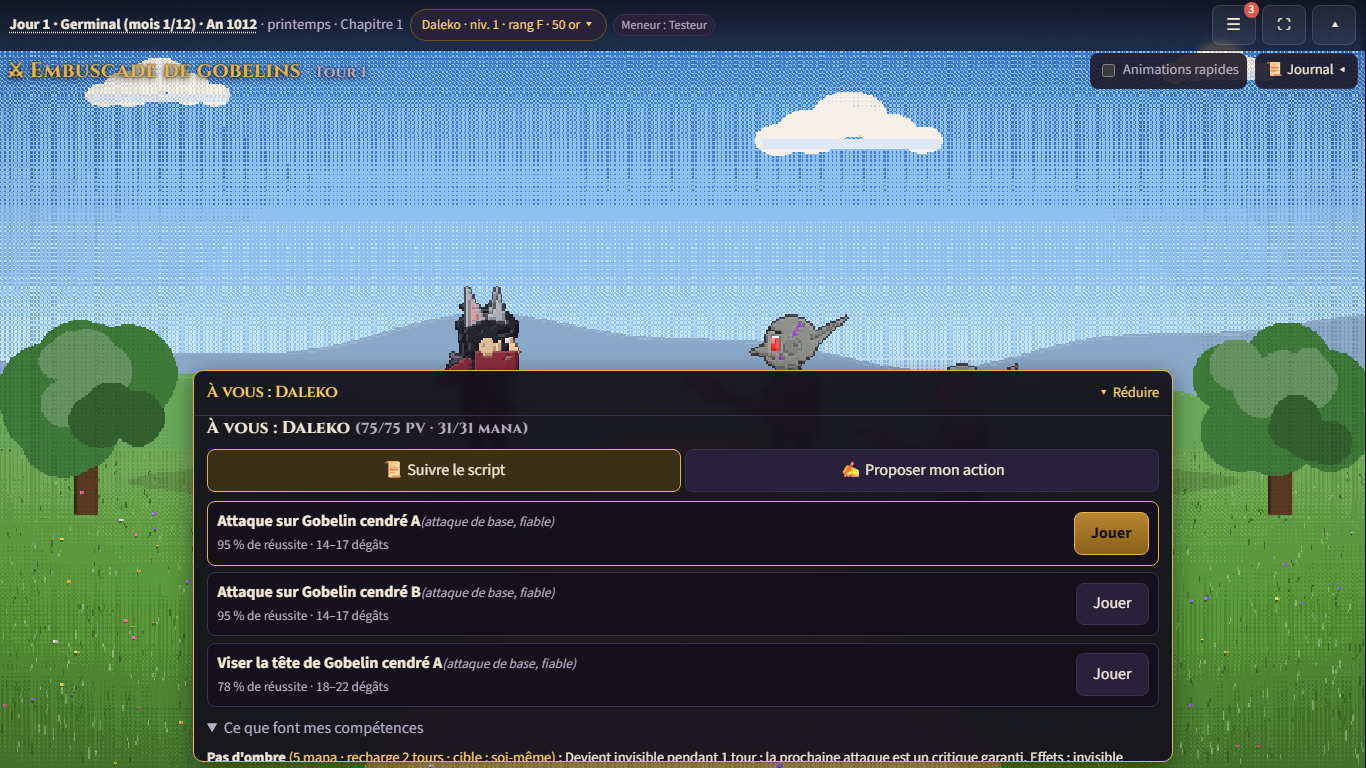
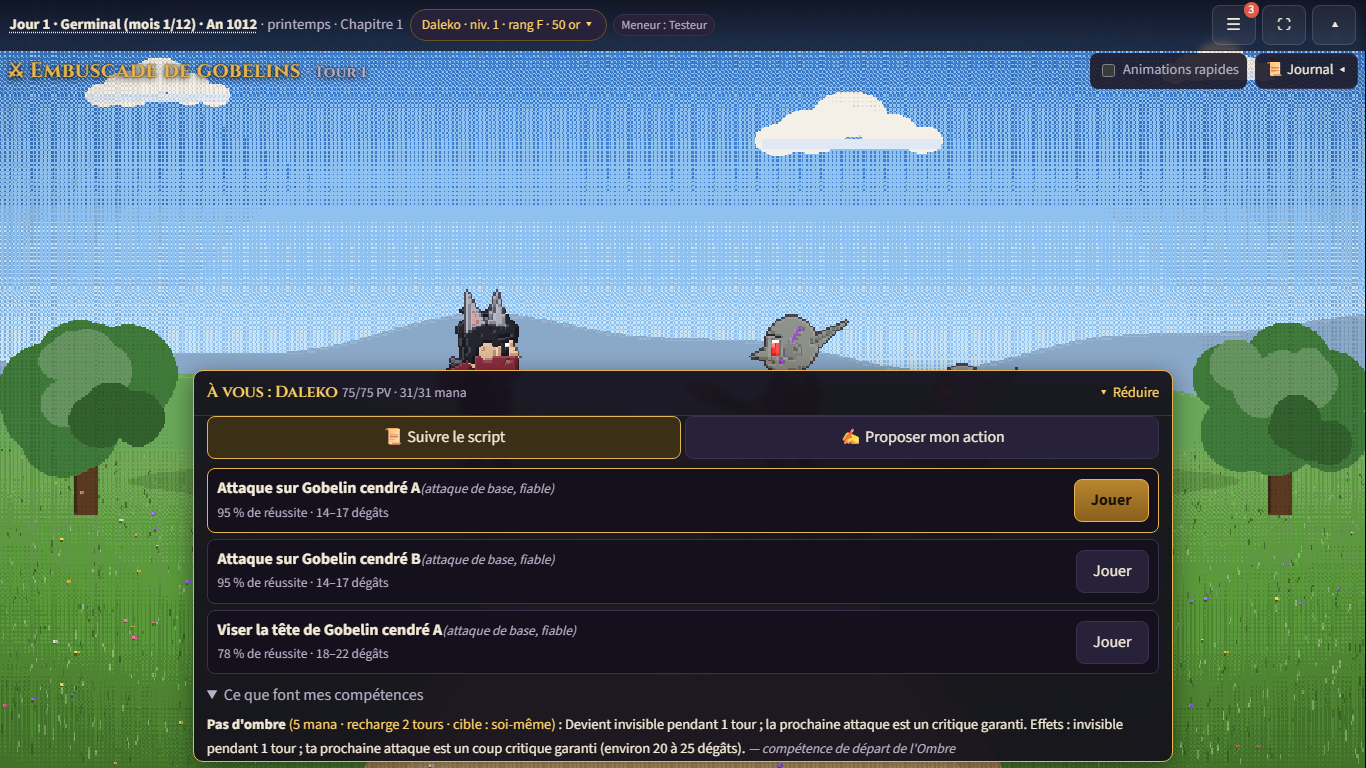
Plein écran, lot 2 : finitions (préférences, accessibilité, tests)
- Chaque appareil retient la barre du haut repliée, le cadre du lieu et les panneaux du combat (src/ui/preferences.ts, localStorage sous try/catch, hors de l'état de la partie)
- Fenêtres centrées : focus piégé et rendu au bouton d'origine ; menu fermé par un clic en dehors ; tiroir refermé quand une scène, un combat ou un donjon commence
- Combat en paysage sur téléphone : panneau d'actions plus bas, en-tête sans doublon
- tests/e2e/parcours.mjs adapté (menu, tiroirs, bouton Carte) avec vérification qu'aucune page ne défile ; passe en entier
- CLAUDE.md (règle d'interface plein écran) et docs/CONCEPTION.md (§ 11.1 l'écran de jeu)

Changed region(s): [[0.1537, 0.5, 0.8609, 1.0], [0.3075, 0.375, 0.3997, 0.5], [0.5534, 0.4062, 0.6149, 0.5]]

diff --git a/src/ui/ecrans/Jeu.svelte b/src/ui/ecrans/Jeu.svelte
@@ -27,6 +27,7 @@
   import Tiroir from '../Tiroir.svelte';
   import Fenetre from '../Fenetre.svelte';
   import { trouverLieu } from '../../moteur/guide';
+  import { ecrirePreference, lirePreference } from '../preferences';
 
   const c = jeu.contenu!;
   type Panneau = 'histoire' | 'fiche' | 'compagnons' | 'quetes' | 'journal' | 'partie';
@@ -37,7 +38,9 @@
   let ville = $state<string | null>(null);
   let ficheOuverte = $state(false);
   let aideDateOuverte = $state(false);
-  let barreRepliee = $state(false);
+  /** Barre du haut repliée : préférence de cet appareil, retenue d'une session à l'autre. */
+  let barreRepliee = $state(lirePreference('barre-repliee', false));
+  $effect(() => ecrirePreference('barre-repliee', barreRepliee));
   let pleinEcran = $state(false);
   /** Ouvre un lieu ; s'il est dans une ville, on reviendra ensuite sur le plan de cette ville. */
   function ouvrirLieu(id: string) {
@@ -77,6 +80,13 @@
     if (etat.tempsLibre) return 'temps-libre';
     if (etat.finChapitre) return 'fin-chapitre';
     return 'monde';
+  });
+
+  // une scène, un combat ou un donjon qui commence referme le tiroir ouvert (sinon il cacherait l'action)
+  let vuePrecedente = '';
+  $effect(() => {
+    if (vue !== vuePrecedente && vuePrecedente !== '') { tiroir = null; menuOuvert = false; }
+    vuePrecedente = vue;
   });
 
   const entrees: [Panneau, string, string, string][] = [
@@ -131,7 +141,7 @@
       <Dialogue cle={sceneMoi!} />
     {:else if vue === 'temps-libre' || vue === 'fin-chapitre'}
       <div class="arriere" inert><Carte choisir={() => undefined} /></div>
-      <Fenetre titre={vue === 'temps-libre' ? 'Temps libre' : 'Fin du chapitre'}>
+      <Fenetre>
         {#if vue === 'temps-libre'}<TempsLibre />{:else}<FinChapitre />{/if}
       </Fenetre>
     {:else if lieu}
@@ -168,6 +178,7 @@
         <div class="menu">
           <button class="icone" aria-label="Menu" aria-expanded={menuOuvert} aria-haspopup="true" onclick={() => (menuOuvert = !menuOuvert)}>☰{#if pastilleMenu}<span class="pastille">{pastilleMenu}</span>{/if}</button>
           {#if menuOuvert}
+            <div class="fond-menu" role="presentation" onclick={() => (menuOuvert = false)}></div>
             <div class="liste-menu carte-ui" role="menu">
               {#each entrees as [id, nom, icone, k] (id)}
                 <button role="menuitem" aria-expanded={tiroir === id} onclick={() => ouvrir(id)}>
@@ -233,6 +244,7 @@
   .icone { position: relative; min-width: 44px; min-height: 40px; padding: 0.2em 0.6em; background: #ffffff10; border-color: #ffffff22; font-size: 1.05rem; }
   .texte { font-size: 0.9rem; }
   .menu { position: relative; }
+  .fond-menu { position: fixed; inset: 0; z-index: 74; }
   .liste-menu { position: absolute; right: 0; top: calc(100% + 0.3rem); width: min(300px, calc(100vw - 1rem)); display: grid; gap: 0.3rem; padding: 0.5rem; z-index: 75; }
   .liste-menu button { display: flex; align-items: center; gap: 0.5rem; text-align: left; min-height: 44px; }
   .liste-menu button span:first-child { flex: 1; }

diff --git a/src/ui/Fenetre.svelte b/src/ui/Fenetre.svelte
@@ -1,12 +1,27 @@
 <script lang="ts">
   /** Fenêtre centrée par-dessus la scène (boutique, auberge, temps libre…), qu'on peut fermer ; elle défile à l'intérieur. */
   import type { Snippet } from 'svelte';
+  import { onMount, tick } from 'svelte';
   let { titre = '', fermer = null, children }: { titre?: string; fermer?: (() => void) | null; children: Snippet } = $props();
+  let boite: HTMLElement;
+  onMount(() => {
+    // le focus va dans la fenêtre, puis revient au bouton qui l'a ouverte
+    const avant = document.activeElement as HTMLElement | null;
+    void tick().then(() => (boite?.querySelector<HTMLElement>('.fermer, button:not([disabled])') ?? boite)?.focus());
+    return () => avant?.focus?.();
+  });
+  function clavier(e: KeyboardEvent) {
+    if (e.key !== 'Tab') return;
+    const el = [...boite.querySelectorAll<HTMLElement>('button, [href], input, select, textarea, summary, [tabindex]:not([tabindex="-1"])')].filter((x) => !x.hasAttribute('disabled'));
+    if (!el.length) return;
+    if (e.shiftKey && document.activeElement === el[0]) { e.preventDefault(); el[el.length - 1].focus(); }
+    else if (!e.shiftKey && document.activeElement === el[el.length - 1]) { e.preventDefault(); el[0].focus(); }
+  }
 </script>
 
 <svelte:window onkeydown={(e) => { if (e.key === 'Escape' && fermer) fermer(); }} />
 <div class="voile" onclick={() => fermer?.()} role="presentation"></div>
-<div class="fenetre carte-ui" role="dialog" aria-modal="true" aria-label={titre || 'Fenêtre'}>
+<div class="fenetre carte-ui" bind:this={boite} role="dialog" aria-modal="true" aria-label={titre || 'Fenêtre'} tabindex="-1" onkeydown={clavier}>
   {#if titre || fermer}
     <header>{#if titre}<h2>{titre}</h2>{/if}{#if fermer}<button class="fermer" aria-label="Fermer" onclick={fermer}>✕</button>{/if}</header>
   {/if}

diff --git a/src/ui/vues/Lieu.svelte b/src/ui/vues/Lieu.svelte
@@ -21,6 +21,7 @@
   import Auberge from './Auberge.svelte';
   import Cadre169 from '../Cadre169.svelte';
   import Fenetre from '../Fenetre.svelte';
+  import { ecrirePreference, lirePreference } from '../preferences';
 
   let { id, retour }: { id: string; retour: () => void } = $props();
   const c = jeu.contenu!;
@@ -55,10 +56,11 @@
   let litOuvert = $state(false);
   let panneaux = $state<HTMLElement | null>(null);
   /** Cadre d'informations en bas de l'écran : replié (une ligne) ou déplié. */
-  let detailsOuverts = $state(false);
+  let detailsOuverts = $state(lirePreference('lieu-details', false));
+  $effect(() => ecrirePreference('lieu-details', detailsOuverts));
   /** La proposition de repos en cours a été mise de côté (la fenêtre du lit est fermée). */
   let reposCache = $state(false);
-  $effect(() => { void id; pnjChoisi = null; piece = 'salle'; boutiqueOuverte = false; contratsOuverts = false; litOuvert = false; detailsOuverts = false; });
+  $effect(() => { void id; pnjChoisi = null; piece = 'salle'; boutiqueOuverte = false; contratsOuverts = false; litOuvert = false; });
   $effect(() => { if (!etat.repos) reposCache = false; });
   // une proposition de repos en cours se règle dans la chambre
   $effect(() => { if (etat.repos && lieu.auberge) piece = 'chambre'; });

diff --git a/src/ui/vues/CombatVue.svelte b/src/ui/vues/CombatVue.svelte
@@ -11,6 +11,7 @@
   import { actionsDisponibles, estimerAction, NOMS_ETATS, type ActionCombat, type Combat, type Combattant, type EvenementCombat } from '../../moteur/combat';
   import type { Competence } from '../../contenu/schemas';
   import { etapeContrat } from '../../moteur/partie';
+  import { ecrirePreference, lirePreference } from '../preferences';
 
   let { cle }: { cle: string } = $props();
   const c = jeu.contenu!;
@@ -107,8 +108,10 @@
   let selection = $state<{ type: 'attaque' } | { type: 'competence'; comp: Competence } | { type: 'potion' } | { type: 'pacifier' } | { type: 'sac'; item: string; cible: string } | null>(null);
   let scene: SceneCombat | null = null;
   /** Panneau d'actions replié, volet du journal ouvert (affichage seulement, propre à cet appareil). */
-  let actionsReduites = $state(false);
-  let journalOuvert = $state(false);
+  let actionsReduites = $state(lirePreference('combat-actions-reduites', false));
+  let journalOuvert = $state(lirePreference('combat-journal', false));
+  $effect(() => ecrirePreference('combat-actions-reduites', actionsReduites));
+  $effect(() => ecrirePreference('combat-journal', journalOuvert));
 
   const cibles = $derived.by((): string[] => {
     if (!dispo || !acteur || !selection) return [];

diff --git a/src/ui/preferences.ts b/src/ui/preferences.ts
@@ -1,0 +1,19 @@
+/**
+ * Préférences d'affichage propres à cet appareil (barre repliée, cadre du lieu, panneau du combat…).
+ * Elles ne font pas partie de l'état de la partie : elles ne sont ni envoyées aux autres joueurs, ni sauvegardées avec la partie.
+ * Le stockage du navigateur peut être indisponible (navigation privée, réglages) : on retombe alors sur la valeur par défaut.
+ */
+const PREFIXE = 'velmaris:affichage:';
+
+export function lirePreference(cle: string, defaut: boolean): boolean {
+  try {
+    const v = localStorage.getItem(PREFIXE + cle);
+    return v === null ? defaut : v === '1';
+  } catch {
+    return defaut;
+  }
+}
+
+export function ecrirePreference(cle: string, valeur: boolean) {
+  try { localStorage.setItem(PREFIXE + cle, valeur ? '1' : '0'); } catch { /* stockage indisponible : préférence non retenue */ }
+}

diff --git a/CLAUDE.md b/CLAUDE.md
@@ -62,6 +62,14 @@ Si une demande est floue ou contradictoire : poser la question plutôt que devin
 - `npm run roblox:parite` échoue tant que `roblox/src/shared/moteur.lua` n'est pas régénéré par la session Roblox (c'était déjà le cas avant le test 2).
 - Tests navigateur (Playwright, installé sur le PC du groupe **hors** `package.json` : `npm i --no-save playwright` puis `npx playwright install chromium`), contre `npm run build` + `npx vite preview --port 4173` : `tests/e2e/carte.mjs` (un seul clic par lieu, ordinateur et mobile : **passe le 14/11**) et `tests/e2e/captures-hd.mjs` (`npx tsx …` : un combat par classe avec calque de race, Temple et Guilde, dans `rapports/captures-hd/`). Les boucles de scène doivent cliquer « Continuer ». L'aperçu se lance avec `.claude/launch.json` (non versionné).
 
+## Interface plein écran (14/11)
+- **L'écran de jeu fait exactement la taille de la fenêtre, et la page ne défile jamais** (`src/ui/ecrans/Jeu.svelte`). La scène (carte, plan, lieu, dialogue, combat, donjon) est un cadre 16:9 agrandi au maximum (`src/ui/Cadre169.svelte`, bandes sombres) ; les zones cliquables se placent en pourcentages de ce cadre. Tout le reste passe **par-dessus** l'image.
+- **Barre du haut** fine et semi-transparente (date, fiche rapide, meneur, 🗺 Carte, ☰ Menu avec pastilles, ⛶ plein écran qui essaie le paysage sur téléphone, ▴ pour la replier en languette). **Tiroirs** à droite pour Histoire, Personnage, Compagnons, Quêtes, Journal, Partie (`src/ui/Tiroir.svelte` : un seul ouvert, ✕, Échap, clic dehors, balayage ; focus piégé et rendu au bouton) ; ils se referment quand une scène, un combat ou un donjon commence. Raccourcis : C, H, P, O, Q, J, Échap.
+- **Lieu** : décor plein écran, cadre d'informations en bas (replié par défaut, une ligne ; déplié, défilement interne). Clic sur un personnage = **petite bulle près de lui** (sous l'image en portrait). Boutique, lit, examen de rang, identification et temps libre = **fenêtres centrées** (`src/ui/Fenetre.svelte`).
+- **Dialogue** façon roman visuel (boîte réductible) ; **combat** : panneau d'actions en bas (déplié par défaut, repliable), journal et combattants dans un volet à droite.
+- Préférences d'affichage de l'appareil (barre, cadre du lieu, panneaux du combat) : `src/ui/preferences.ts` (`localStorage` sous `try/catch`), jamais dans l'état de la partie.
+- Téléphone : barre sur une ligne (la date est dans la fiche rapide), en portrait la scène est en haut et les informations dessous. Animations de 150 à 200 ms, coupées par `prefers-reduced-motion`. Notifications et erreurs en haut à droite.
+- Tests navigateur : `tests/e2e/parcours.mjs` (parcours complet), `carte.mjs` (un seul clic par lieu), `captures-ecran.mjs` (4 tailles d'écran, vérifie qu'aucune page ne défile ; captures dans `rapports/captures-ecran/`).
 ## Fonds de combat (14/11)
 - **Un combat a toujours un décor.** Chaîne de secours (`src/rendu/fonds.ts`, `choisirFond`) : 1. vrai fond `assets/combat/fonds/<fond>.png` ; 2. décor équivalent de `content/config/fonds.yaml` (clé `fonds_combat`, validée par zod : `decor` et `type` extérieur / intérieur) ; 3. décor du lieu où le combat commence (scène ou étape de contrat) ; 4. fond générique `plaine` ou `crypte` ; 5. dégradé, signalé seulement dans la console. Un décor de lieu utilisé comme fond est assombri de 18 % et reçoit une bande de sol sous la ligne des pieds. **Les 32 vrais fonds sont livrés (branche `textures-fonds`, 14/11)** : la chaîne de secours ne sert plus qu'à un nouveau fond sans image ; ligne des pieds (`sol = H * 0.62`) vérifiée sur les 32. Les noms longs des combattants passent sur deux lignes.
 - Tout nouveau `fond:` d'une rencontre doit avoir son image ou une ligne dans `fonds.yaml` : `tests/fonds.test.ts` le vérifie. `npm run assets:manquants` liste les vrais fonds de combat manquants.

diff --git a/docs/CONCEPTION.md b/docs/CONCEPTION.md
@@ -802,6 +802,18 @@ Chaque fin comprend un **épilogue par héros** (son âge en 1030, son domaine, 
 
 ---
 
+### 11.1 L'écran de jeu (décidé le 14/11)
+
+Le jeu s'affiche **en plein écran, comme un jeu vidéo** : l'image (carte, décor, combat) occupe toute la fenêtre, et la page ne défile jamais.
+
+- **En haut**, une barre fine et transparente : la date, le badge du héros (qui ouvre sa fiche), le meneur du jour, et les boutons 🗺 Carte, ☰ Menu, ⛶ plein écran et ▴ pour cacher la barre.
+- **Le menu ☰** ouvre des tiroirs qui glissent depuis la droite : Histoire, Personnage, Compagnons, Quêtes, Journal, Partie. Un seul à la fois ; on le ferme avec ✕, Échap, un clic à côté, ou en balayant vers la droite. Sur ordinateur : C carte, H histoire, P personnage, O compagnons, Q quêtes, J journal.
+- **Dans un lieu**, on clique sur un personnage du décor : une petite bulle s'ouvre près de lui (lui parler, voir sa marchandise…). Le nom du lieu et ses informations sont dans un cadre en bas, replié par défaut.
+- **En dialogue**, le décor reste en fond et le texte est dans une boîte en bas, qu'on peut réduire pour voir l'image.
+- **En combat**, la scène occupe tout l'écran ; les actions sont dans un panneau en bas, le journal dans un volet à droite.
+- La boutique, le lit de l'auberge, l'examen de rang et le temps libre s'ouvrent dans des fenêtres au centre de l'écran.
+- Chaque appareil retient si l'on préfère la barre, le cadre du lieu ou le panneau du combat repliés.
+
 ## 12. Équilibrage : la méthode
 
 - Un script (`npm run equilibrage`) fait combattre **chaque classe** contre des **ennemis de référence** (un costaud, un rapide, un mage, un groupe de faibles, un mini-boss), au niveau 1 puis à quelques niveaux repères. Il fait **au moins 1 000 combats par cas**.
